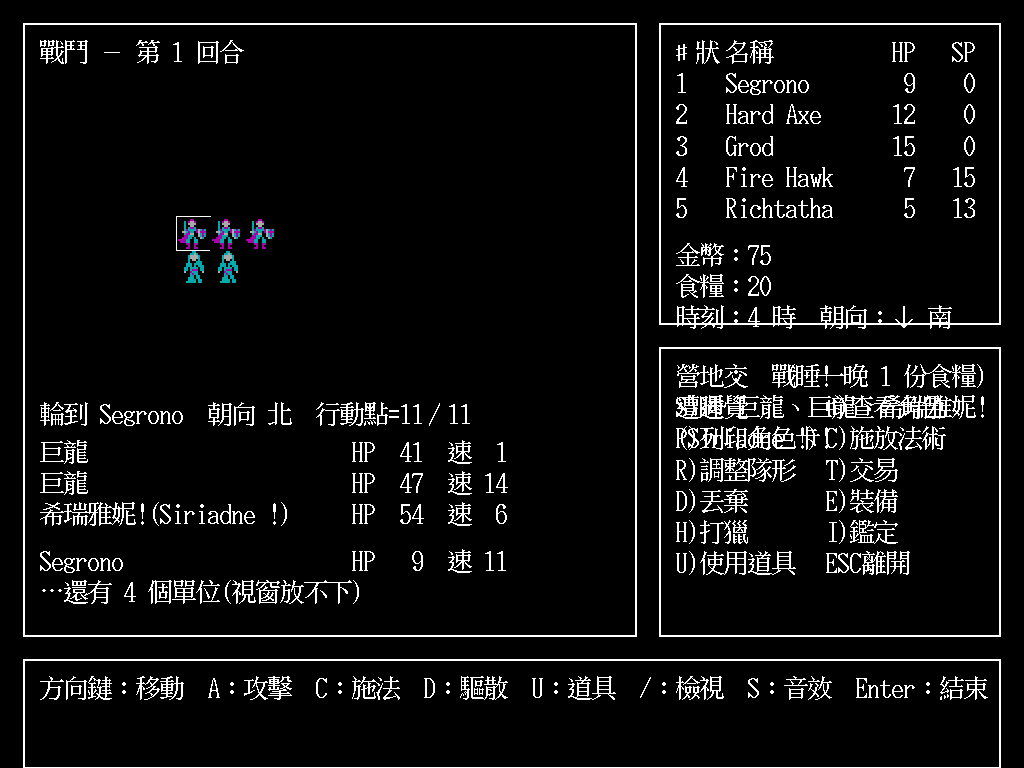
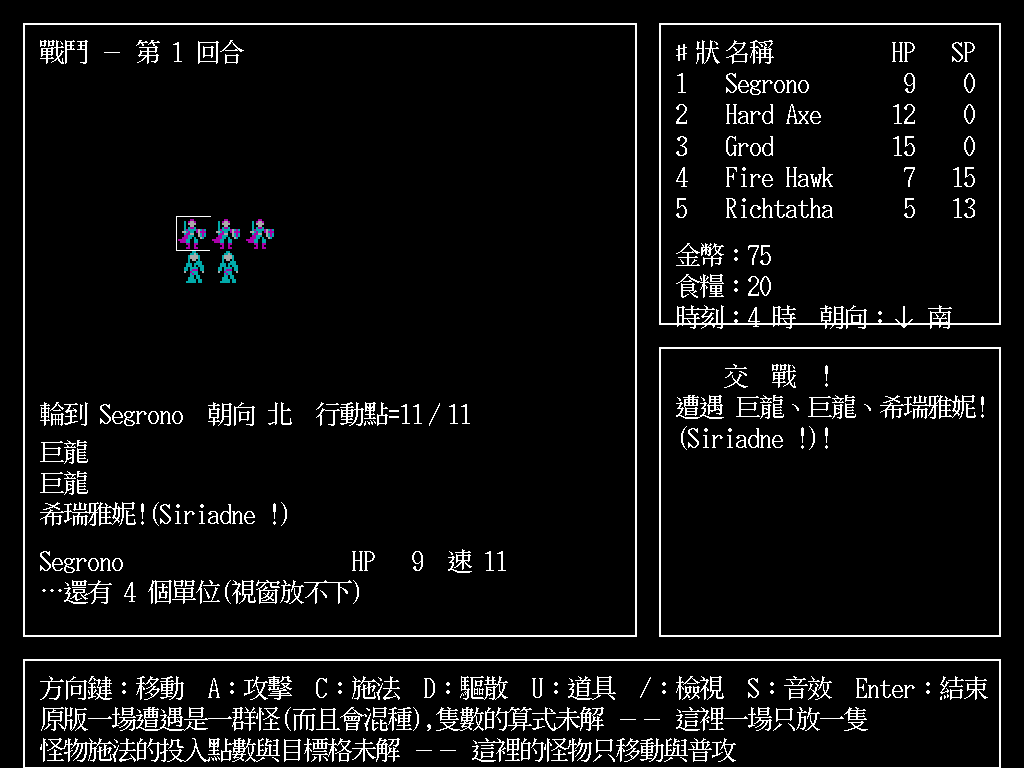
戰鬥開著時城鎮/營地畫面讓開;更新截圖
紮營中開始腳本戰鬥時,營地選單與戰場日誌畫在同一個框裡疊字 ——
drawMaze 早就有這個讓位,drawTown 沒有。截圖測試把它照了出來
(07-camp 之後接 06-combat)。

diff --git a/engine/town_scene.go b/engine/town_scene.go
@@ -470,6 +470,12 @@ func (g *Game) drawTown(dst *ebiten.Image) {
 	if ts == nil || ts.mode == townClosed || p == nil {
 		return
 	}
+	// ⚠ 戰鬥開著時讓開 —— 同 drawMaze。營地把訊息框借走(drawCampInPlace),
+	// 而戰場也在那個框裡印日誌:兩邊都畫就是兩層字疊在一起。
+	// 腳本戰鬥可以在紮營的狀態下開始,所以這不是假想的情況。
+	if g.field != nil {
+		return
+	}
 	lh := p.LineHeight()
 	x := float64(layout.View.X + ui.PanelPad)
 	y := float64(layout.View.Y + ui.PanelPad)

diff --git a/engine/shot_test.go b/engine/shot_test.go
@@ -129,6 +129,7 @@ func TestShots(t *testing.T) {
 			// Update(掉格時就會),而 startScriptedCombat 每次都重建 *Field
 			// 並重擲怪物生命 —— 拍到的數字因此會隨機器忙碌程度變動,
 			// 兩次跑出來的 PNG 不一樣。這不是遊戲的不確定性,是拍照工具的。
+			g.town = nil // ⚠ 前一張是營地 —— 狀態要收乾淨再開戰
 			if g.field == nil && !g.startScriptedCombat(533) {
 				t.Log("⚠ 腳本戰鬥開不起來")
 			}
